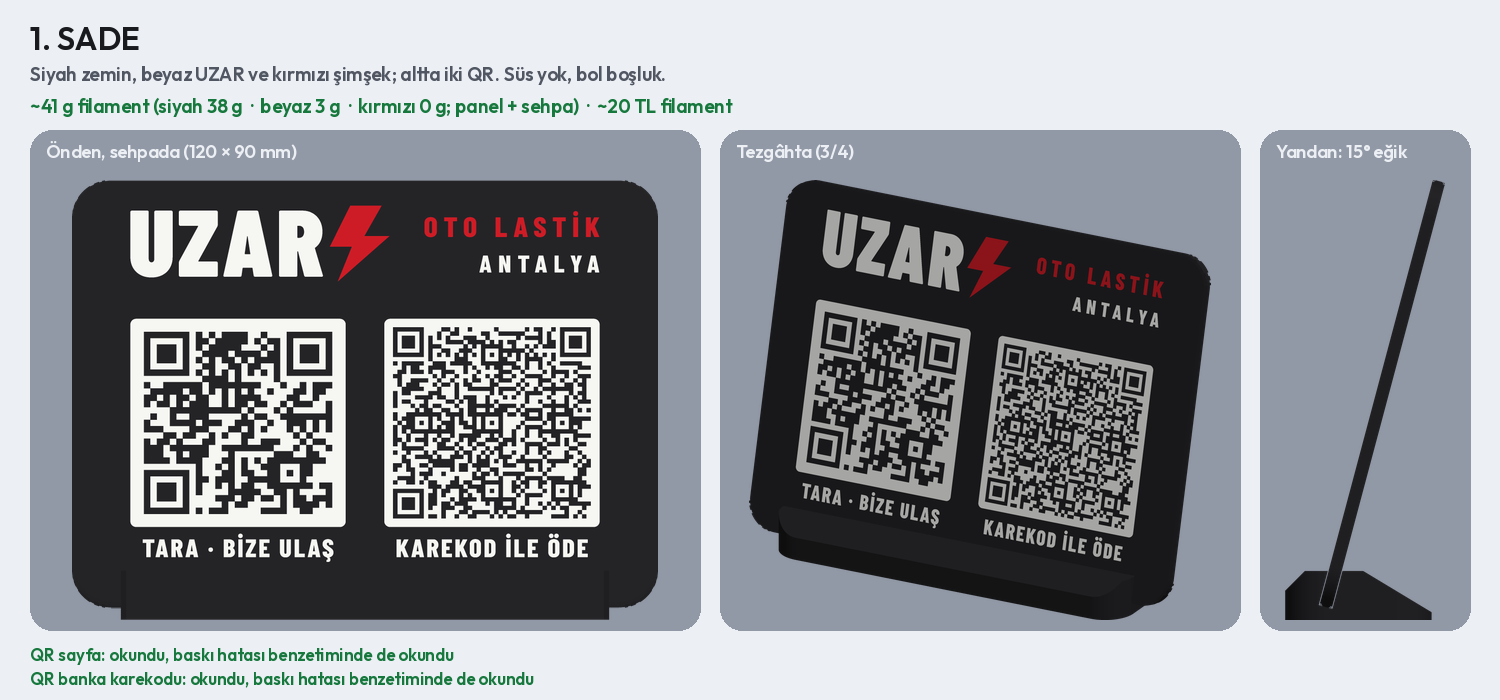
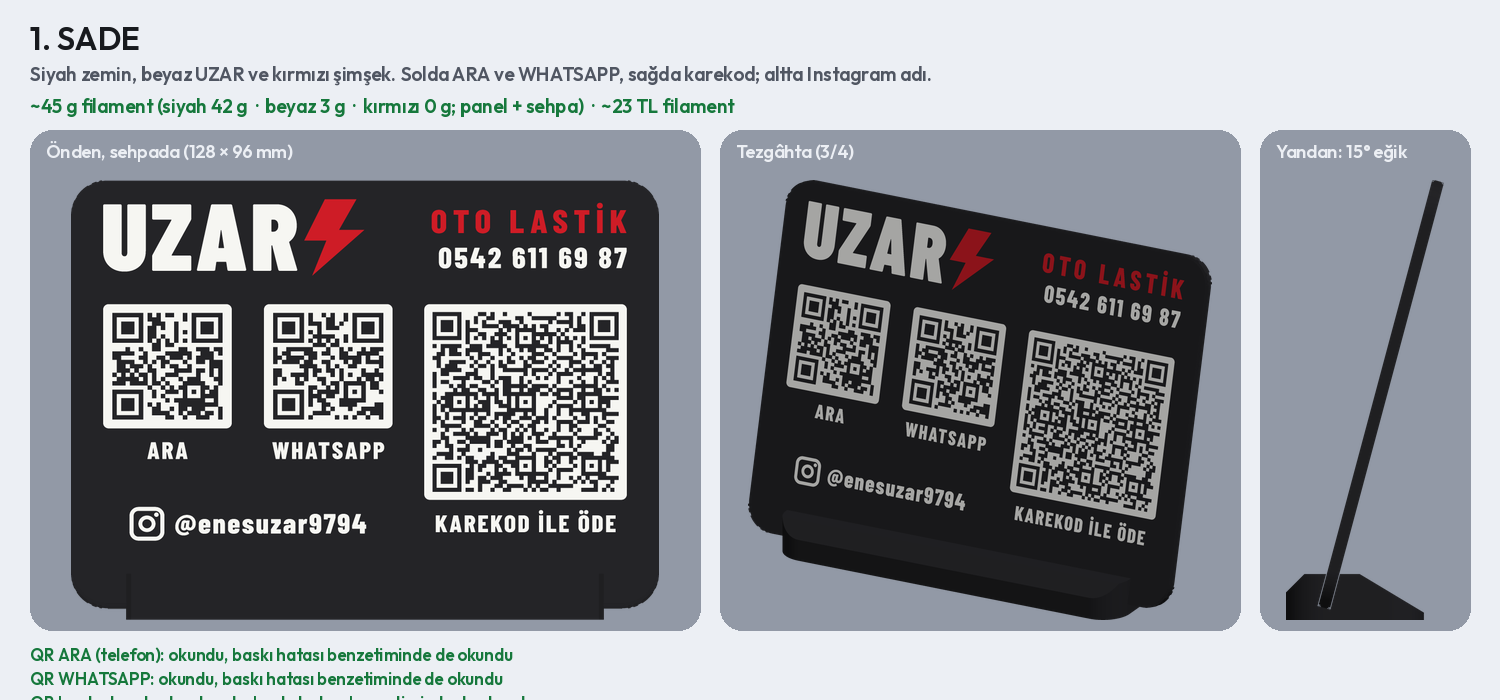
Uzar isimliği: site yok, QR'lar doğrudan açar (ARA, WHATSAPP, karekod)
128 × 96 mm (4:3) üç sade öneri; ARA telefon uygulamasını, WHATSAPP sohbeti, karekod banka uygulamasını açar.
QR'lar ön görünüşten ve baskı hatası benzetiminden okundu.

Claude-Session: https://claude.ai/code/session_01DYSZWrkNx3UmjJ19VqHJCk

diff --git a/scripts/uzar_isimlik.py b/scripts/uzar_isimlik.py
@@ -1,17 +1,17 @@
-"""UZAR OTO LASTİK – QR'lı tezgâh isimliği önerileri: 4:3 yatay (120 × 90 mm), köşeleri yuvarlak, sade.
+"""UZAR OTO LASTİK – QR'lı tezgâh isimliği önerileri: 4:3 yatay (128 × 96 mm), köşeleri yuvarlak, sade. Site yok.
 
-İki QR (tek baskıda, panelin ön yüzünde):
-  * TARA · BİZE ULAŞ  → işletme sayfası (ara, WhatsApp, Instagram, Google'da değerlendir, IBAN kopyala, karekod,
-                        rehbere kaydet); sayfa: scripts/uzar_sayfa.py, bilgiler: uzar_isimlik/bilgiler.json
-  * KAREKOD İLE ÖDE   → bankanın karekodu (ENES UZAR, Yapı Kredi IBAN'ı): banka uygulamasıyla okutunca para
-                        gönderme ekranı alıcısı ve IBAN'ı dolu açılır
-Sayfa adresi sabit kaldıkça bilgiler (Instagram, Google bağlantısı, IBAN) isimlik yeniden basılmadan değişebilir.
+Üç QR, her biri doğrudan işini yapar (internet sitesi gerekmez, araya başka sayfa girmez):
+  * ARA              → TEL:+905426116987: okutunca telefon uygulaması numarayla açılır
+  * WHATSAPP         → https://wa.me/905426116987: WhatsApp sohbeti açılır
+  * KAREKOD İLE ÖDE  → bankanın karekodu (ENES UZAR, Yapı Kredi IBAN'ı): banka uygulamasıyla okutunca para gönderme
+                       ekranı alıcısı ve IBAN'ı dolu açılır
+Instagram adı yazıyla (@enesuzar9794), telefon numarası başlıkta. Bilgiler: uzar_isimlik/bilgiler.json.
 
-Panel 120 × 90 × 2,6 mm (4:3), köşeler R8, kenarlar iki yüzde 0,6 mm basamaklı pahla yumuşatılmış. Ön yüzü tablada
+Panel 128 × 96 × 2,6 mm (4:3), köşeler R8, kenarlar iki yüzde 0,6 mm basamaklı pahla yumuşatılmış. Ön yüzü tablada
 basılır: yazılar ve QR'ın beyaz zemini ilk 4 katmanda yüzeye gömülü renkli dolgu (0,8 mm); QR'ın siyah kareleri
-gövdenin kendisi. Tablada basılan yüz düz ve keskin; Textured PEI ile mat (QR'da parlama olmaz). Panel 100 mm'lik
+gövdenin kendisi. Tablada basılan yüz düz ve keskin; Textured PEI ile mat (QR'da parlama olmaz). Panel 104 mm'lik
 siyah sehpanın yuvasına 15° arkaya eğik takılır (ortada alttaki ~7 mm yuvada kalır); iki parça aynı tablada.
-QR kare boyu en az 0,9 mm (scripts/qr_sistemi.py).
+QR kare boyu en az 0,9 mm (scripts/qr_sistemi.py): karekod 0,90 mm, ARA ve WHATSAPP 0,96 mm.
 
 Her tasarımda QR'lar ön görünüşün görüntüsünden (ve baskı hatası benzetiminden) okunarak doğrulanır.
 
@@ -38,17 +38,20 @@ from masa_isimligi import Concept, upright  # noqa: E402
 OUT_DIR = os.path.join(A.ROOT, "uzar_isimlik")
 BLACK, WHITE, RED = (36, 36, 39), (246, 246, 242), (206, 28, 38)
 NAMES = {BLACK: "siyah", WHITE: "beyaz", RED: "kırmızı"}
-PW, PH = 120.0, 90.0             # panel 4:3 (x −60..60, y 0..90)
+PW, PH = 128.0, 96.0             # panel 4:3 (x −64..64, y 0..96)
 RADIUS = 8.0                     # köşe yuvarlatma
 HIDDEN = 7.5                     # ortada sehpanın yuvasında kalan alt şerit
 T = 2.6                          # panel kalınlığı (13 katman)
 TILT = 15.0
-STAND = dict(length=100.0, depth=30.0, height=10.0, r=8.0)
-TILE = 44.1                      # QR karosu (karekod 45 + 2×2 kare × 0,9 mm)
-CX = 26.0                        # karoların orta noktası (±x)
+STAND = dict(length=104.0, depth=30.0, height=10.0, r=8.0)
+XM = 57.0                        # içerik kenarları (±x)
+KK = 44.1                        # karekod karosu (45 + 2×2 kare × 0,9 mm)
+SM = 28.0                        # ARA / WHATSAPP karosu (25 + 2×2 kare × 0,96 mm)
+TOP = 68.0                       # karoların üst kenarı
 J = m3.JoinType.Round
 INFO = Q.load()
-QRS = {e.key: e for e in Q.qr_set(INFO, ["sayfa", "karekod"])}
+QRS = {e.key: e for e in Q.qr_set(INFO, ["telefon", "whatsapp", "karekod"])}
+QR_NAMES = {"telefon": "ARA (telefon)", "whatsapp": "WHATSAPP", "karekod": "banka karekodu"}
 
 
 # ---------------------------------------------------------------- parçalar
@@ -65,7 +68,7 @@ def outline():
     return A.rrect(PW, PH, RADIUS, 0, PH / 2)
 
 
-def tile(key, cx, cy, s=TILE, r=1.2):
+def tile(key, cx, cy, s, r=1.2):
     """QR karosu: köşeleri yuvarlak beyaz kare eksi koyu kareler. Döner: (beyaz, koyu, kare boyu)."""
     e = QRS[key]
     module = Q.module_for(e, s)
@@ -90,34 +93,46 @@ def wordmark(cap, x, y, align="l"):
     return letters.translate((dx, 0)), b.translate((dx, 0))
 
 
-def wordmark_width(cap):
-    letters, b = wordmark(cap, 0, 0)
-    return b.bounds()[2] - letters.bounds()[0]
-
-
 def header_lr(fg):
-    """Solda UZAR + şimşek, sağda OTO LASTİK / şehir (karoların dış kenarlarına hizalı, arada en az 7 mm)."""
-    x0, x1 = -CX - TILE / 2, CX + TILE / 2
-    letters, b = wordmark(14.0, x0, 76.5)
-    room = x1 - (b.bounds()[2] + 7.0)
+    """Solda UZAR + şimşek, sağda OTO LASTİK / telefon (içerik kenarlarına hizalı, arada en az 8 mm)."""
+    letters, b = wordmark(15.0, -XM, 83.0)
+    room = XM - (b.bounds()[2] + 8.0)
     return [(letters, fg), (b, RED),
-            (text(bold(), "OTO LASTİK", 5.0, x1, 80.0, "r", 1.2, room), RED),
-            (text(bold(), INFO.city, 3.6, x1, 72.2, "r", 1.3, room), fg)]
+            (text(bold(), "OTO LASTİK", 5.2, XM, 86.6, "r", 1.25, room), RED),
+            (text(bold(), INFO.phone, 4.6, XM, 78.4, "r", 0.5, room), fg)]
 
 
-def two_tiles(y0, light=True):
-    """Yan yana iki QR karosu (alt kenar y0). light: beyaz karo (siyah gövdede); False: siyah kareler (beyaz gövdede)."""
+def instagram(x, y, cap=4.4, size=7.6, align="l"):
+    """Instagram simgesi (sade: yuvarlak kare, halka, nokta; çizgiler ≥0,85 mm) ve @kullanıcı adı, y = orta."""
+    h = size / 2
+    w = 0.9
+    ring = A.rrect(size, size, size * 0.26, 0, 0) - A.rrect(size - 2 * w, size - 2 * w, size * 0.26 - w, 0, 0)
+    ro = size * 0.245
+    icon = ring + (A.circle(ro, 0, 0) - A.circle(ro - 0.85, 0, 0)) + A.circle(0.5, size * 0.27, size * 0.27)
+    words = text(bold(), "@" + INFO.instagram, cap, 0, 0, "l", 0.35)
+    gap = 2.2
+    total = size + gap + words.bounds()[2]
+    x0 = {"l": x, "c": x - total / 2, "r": x - total}[align]
+    return icon.translate((x0 + h, y)) + words.translate((x0 + size + gap, y))
+
+
+def qr_group(kk_left, light):
+    """Karekod (büyük) bir yanda, ARA ve WHATSAPP öbür yanda. Döner: [(şekil, rol)] rol: tile / label."""
+    if kk_left:
+        kx, sx = -XM + KK / 2, (XM - SM / 2 - SM - 7.0, XM - SM / 2)
+    else:
+        kx, sx = XM - KK / 2, (-XM + SM / 2, -XM + SM / 2 + SM + 7.0)
     out = []
-    for key, cx in (("sayfa", -CX), ("karekod", CX)):
-        white, dark, _ = tile(key, cx, y0 + TILE / 2)
-        out.append(white if light else dark)
+    white, dark, _ = tile("karekod", kx, TOP - KK / 2, KK)
+    out.append((white if light else dark, "tile"))
+    out.append((text(bold(), "KAREKOD İLE ÖDE", 3.8, kx, TOP - KK - 5.4, "c", 0.38, KK), "label"))
+    for key, x, word in (("telefon", sx[0], "ARA"), ("whatsapp", sx[1], "WHATSAPP")):
+        white, dark, _ = tile(key, x, TOP - SM / 2, SM)
+        out.append((white if light else dark, "tile"))
+        out.append((text(bold(), word, 3.8, x, TOP - SM - 5.0, "c", 0.38, SM), "label"))
+    side_c = (sx[0] + sx[1]) / 2
+    out.append((instagram(side_c, TOP - KK - 5.4, align="c"), "insta"))
     return out
-
-
-def labels(y, cap=3.8):
-    f = bold()
-    return [text(f, "TARA · BİZE ULAŞ", cap, -CX, y, "c", cap * 0.1, TILE),
-            text(f, "KAREKOD İLE ÖDE", cap, CX, y, "c", cap * 0.1, TILE)]
 
 
 def soften(body, out, depth=0.6, steps=3):
@@ -133,58 +148,36 @@ def soften(body, out, depth=0.6, steps=3):
 # ---------------------------------------------------------------- tasarımlar
 
 def s1_sade():
-    """Siyah zemin; solda UZAR + şimşek, sağda OTO LASTİK / ANTALYA; altta iki QR."""
-    c = Concept("1_sade", "Sade", "Siyah zemin, beyaz UZAR ve kırmızı şimşek; altta iki QR. Süs yok, bol boşluk.", "")
+    """Siyah zemin; solda UZAR + şimşek, sağda OTO LASTİK / telefon; altta ARA, WHATSAPP ve karekod."""
+    c = Concept("1_sade", "Sade", "Siyah zemin, beyaz UZAR ve kırmızı şimşek. Solda ARA ve WHATSAPP, sağda karekod; "
+                "altta Instagram adı.", "")
     reg = header_lr(WHITE)
-    reg += [(t, WHITE) for t in two_tiles(16.5)]
-    reg += [(t, WHITE) for t in labels(12.0)]
+    reg += [(cs, WHITE) for cs, _ in qr_group(False, True)]
     return c, reg, BLACK
 
 
 def s2_beyaz():
-    """Beyaz zemin; siyah UZAR, kırmızı şimşek; QR'lar beyaz gövde üstünde siyah kare."""
-    c = Concept("2_beyaz", "Beyaz", "Beyaz zemin, siyah UZAR ve kırmızı şimşek; QR'lar beyaz gövdede siyah kare.", "")
+    """Beyaz zemin; siyah yazılar, kırmızı şimşek; QR'lar beyaz gövde üstünde siyah kare."""
+    c = Concept("2_beyaz", "Beyaz", "Aynı düzen beyaz zeminde: siyah yazı, kırmızı şimşek; QR'lar beyaz gövdede siyah "
+                "kare.", "")
     reg = header_lr(BLACK)
-    reg += [(t, BLACK) for t in two_tiles(16.5, light=False)]
-    reg += [(t, BLACK) for t in labels(12.0)]
+    reg += [(cs, BLACK) for cs, _ in qr_group(False, False)]
     return c, reg, WHITE
 
 
-def s3_ortali():
-    """Ortalanmış başlık: UZAR + şimşek, altında kırmızı OTO LASTİK · ANTALYA; etiketler kırmızı."""
-    c = Concept("3_ortali", "Ortalı", "Başlık ortada: UZAR ve şimşek, altında kırmızı OTO LASTİK · ANTALYA; "
-                "etiketler kırmızı.", "")
-    letters, b = wordmark(14.0, 0.0, 78.0, "c")
+def s3_odeme_solda():
+    """Karekod solda (ödeme önde), ARA ve WHATSAPP sağda; başlık ortada, etiketler kırmızı."""
+    c = Concept("3_odeme_solda", "Ödeme solda", "Başlık ortada; karekod solda, ARA ve WHATSAPP sağda; etiketler "
+                "kırmızı.", "")
+    letters, b = wordmark(13.0, 0.0, 86.0, "c")
     reg = [(letters, WHITE), (b, RED),
-           (text(bold(), f"OTO LASTİK  ·  {INFO.city}", 4.2, 0.0, 66.4, "c", 1.25), RED)]
-    reg += [(t, WHITE) for t in two_tiles(16.0)]
-    reg += [(t, RED) for t in labels(11.6)]
+           (text(bold(), f"OTO LASTİK  ·  {INFO.phone}", 4.2, 0.0, 73.2, "c", 1.0), RED)]
+    for cs, role in qr_group(True, True):
+        reg.append((cs, RED if role == "label" else WHITE))
     return c, reg, BLACK
 
 
-def s4_tek_qr():
-    """Tek büyük QR (sayfa) sağda; solda marka, TARA ve telefon. Karekod sayfada."""
-    c = Concept("4_tek_qr", "Tek QR", "Tek büyük QR sağda (sayfayı açar, karekod sayfada); solda marka, TARA ve "
-                "telefon. En sade.", "")
-    c.uses = ("sayfa",)
-    s, qx, qy = 54.0, 25.0, 47.0
-    x0, x1 = -50.0, qx - s / 2 - 7.0
-    cap = min(13.0, 10.0 * (x1 - x0) / wordmark_width(10.0))
-    letters, b = wordmark(cap, x0, 71.0)
-    white, _, _ = tile("sayfa", qx, qy, s, r=1.6)
-    reg = [(letters, WHITE), (b, RED),
-           (text(bold(), "OTO LASTİK", 4.6, x0, 58.6, "l", 1.25, x1 - x0), RED),
-           (text(bold(), INFO.city, 3.4, x0, 52.2, "l", 1.2), WHITE),
-           (text(heavy(), "TARA", 8.5, x0, 35.0, "l", 0.5), WHITE)]
-    tx = reg[-1][0].bounds()[2] + 3.0
-    reg.append((A.polygon([(tx, 31.8), (tx + 5.2, 35.0), (tx, 38.2)]), RED))
-    reg += [(text(bold(), "BİZE ULAŞ · ÖDE", 3.8, x0, 25.5, "l", 0.45, x1 - x0), WHITE),
-            (text(bold(), INFO.phone, 4.4, x0, 15.0, "l", 0.45, x1 - x0), WHITE),
-            (white, WHITE)]
-    return c, reg, BLACK
-
-
-DESIGNS = [s1_sade, s2_beyaz, s3_ortali, s4_tek_qr]
+DESIGNS = [s1_sade, s2_beyaz, s3_odeme_solda]
 
 
 # ---------------------------------------------------------------- yapım, kontrol, çizim
@@ -205,7 +198,7 @@ def build(fn):
     for m, col in c.parts:
         g[col] = g.get(col, 0.0) + Y.grams(m)
     c.g = g
-    c.expected = [QRS[k].content for k in getattr(c, "uses", ("sayfa", "karekod"))]
+    c.expected = [QRS[k].content for k in ("telefon", "whatsapp", "karekod")]
     return c
 
 
@@ -248,7 +241,7 @@ def mesh(parts):
 
 
 def sheet(c, i):
-    views = [(rotation(0, -90), "Önden, sehpada (120 × 90 mm)"), (rotation(-28, -68), "Tezgâhta (3/4)"),
+    views = [(rotation(0, -90), f"Önden, sehpada ({PW:.0f} × {PH:.0f} mm)"), (rotation(-28, -68), "Tezgâhta (3/4)"),
              (rotation(-90, -90), f"Yandan: {TILT:.0f}° eğik")]
     W, H = 1500, 700
     canvas = Image.new("RGB", (W, H), (236, 239, 244))
@@ -269,7 +262,7 @@ def sheet(c, i):
             fill=(22, 120, 60), font=font_ui(19))
     y = 644
     for content, ok, ok_sim in c.qr:
-        label = "sayfa" if content == QRS["sayfa"].content else "banka karekodu"
+        label = next(QR_NAMES[k] for k, e in QRS.items() if e.content == content)
         dr.text((30, y), f"QR {label}: " + ("okundu" if ok else "OKUNMADI") +
                 (", baskı hatası benzetiminde de okundu" if ok_sim else ", benzetimde OKUNMADI"),
                 fill=(22, 120, 60) if ok and ok_sim else (200, 30, 38), font=font_ui(17))
@@ -283,10 +276,11 @@ def overview(cs, path):
     W, H = 2 * cw + 3 * gap, 2 * ch + 3 * gap + 110
     canvas = Image.new("RGB", (W, H), (244, 245, 247))
     dr = ImageDraw.Draw(canvas)
-    dr.text((24, 20), "UZAR OTO LASTİK – QR'LI TEZGÂH İSİMLİĞİ (4:3, 120 × 90 mm)", fill=(24, 26, 30),
+    dr.text((24, 20), f"UZAR OTO LASTİK – QR'LI TEZGÂH İSİMLİĞİ (4:3, {PW:.0f} × {PH:.0f} mm)", fill=(24, 26, 30),
             font=font_ui(34))
-    dr.text((24, 66), "Sol QR: sayfa (ara · WhatsApp · Instagram · Google · IBAN)  ·  sağ QR: banka karekodu "
-                      "(ENES UZAR, Yapı Kredi)  ·  hepsi görüntüden okundu", fill=(110, 114, 124), font=font_ui(19))
+    dr.text((24, 66), "Site yok, QR'lar doğrudan açar: ARA → telefon uygulaması  ·  WHATSAPP → sohbet  ·  KAREKOD İLE "
+                      "ÖDE → banka uygulaması (ENES UZAR, Yapı Kredi)  ·  hepsi görüntüden okundu",
+            fill=(110, 114, 124), font=font_ui(19))
     for k, c in enumerate(cs):
         x, y = gap + (k % 2) * (cw + gap), 110 + gap + (k // 2) * (ch + gap)
         dr.rounded_rectangle((x, y, x + cw, y + ch), 24, fill=(226, 228, 232))
@@ -314,7 +308,7 @@ def main():
         sheet(c, i)
         cs.append(c)
         bad = [k for k, (m, _) in enumerate(c.parts) if not str(m.status()).endswith("NoError") or m.volume() <= 0]
-        mods = {k: float(Q.module_for(e, TILE)) for k, e in QRS.items()}
+        mods = {k: float(Q.module_for(e, KK if k == "karekod" else SM)) for k, e in QRS.items()}
         print(f"{c.key:12s} ~{sum(c.g.values()):4.0f} g  QR: {[(ok, sim) for _, ok, sim in c.qr]}  "
               f"0,8 mm'den ince (%): {thin(c)}  kare: {mods}  bozuk: {bad}")
     if not only:

diff --git a/uzar_isimlik/README.md b/uzar_isimlik/README.md
@@ -1,71 +1,46 @@
-# UZAR OTO LASTİK – QR'lı tezgâh isimliği ve işletme sayfası
+# UZAR OTO LASTİK – QR'lı tezgâh isimliği (site yok)
 
 ![Tasarımlar](hepsi.png)
 
-## Sistem
+## Sistem: QR'lar doğrudan açar
 
-| QR | Okutunca | Not |
-| --- | --- | --- |
-| **TARA · BİZE ULAŞ** | işletme sayfası açılır: Hemen Ara, WhatsApp, Instagram (@enesuzar9794), Google'da değerlendir, IBAN (tek dokunuşla kopyala), karekod, Rehbere Kaydet | sayfa dosyaları: `site/` (yüklemeye hazır: `uzar_site.zip`) |
-| **KAREKOD İLE ÖDE** | banka uygulamasıyla okutulunca para gönderme ekranı ENES UZAR ve IBAN'ı dolu açılır | Yapı Kredi karekodunun içeriği fotoğraftan okundu, birebir yeniden çizildi |
+| QR | Okutunca |
+| --- | --- |
+| **ARA** | `TEL:+905426116987`: telefon uygulaması numarayla açılır |
+| **WHATSAPP** | `https://wa.me/905426116987`: WhatsApp sohbeti açılır |
+| **KAREKOD İLE ÖDE** | banka uygulamasıyla okutulunca para gönderme ekranı ENES UZAR ve IBAN'ı dolu açılır (Yapı Kredi karekodunun içeriği fotoğraftan okundu, birebir yeniden çizildi) |
+
+Instagram adı (@enesuzar9794) ve telefon numarası yazılı. Araya internet sitesi girmez; yayınlanacak bir şey yok.
 
 - Tüm bilgiler tek dosyada: `bilgiler.json`. IBAN mod-97 ile doğrulanır; karekodun CRC'si ve içindeki IBAN/alıcı
   bu IBAN'la karşılaştırılır (tutmazsa üretim durur).
-- Sayfa adresi değişmediği sürece Instagram, Google bağlantısı, IBAN vb. **isimlik yeniden basılmadan** sayfadan
-  değiştirilebilir (`python3 scripts/uzar_sayfa.py`, yeni zip yüklenir).
-- QR kare boyu: sayfa 1,33 mm, karekod 0,90 mm (en az 0,9). Her QR baskıya giden geometriden ve isimliğin ön
-  görünüşünden okundu; siyahın ±0,15 mm taşması, bulanıklık, 35° eğik bakış, uzaktan, gölge ve gürültü
+- QR kare boyu: karekod 0,90 mm, ARA ve WHATSAPP 0,96 mm (en az 0,9). Her QR baskıya giden geometriden ve
+  isimliğin ön görünüşünden okundu; siyahın ±0,15 mm taşması, bulanıklık, 35° eğik bakış, uzaktan, gölge ve gürültü
   benzetimlerinde de okundu (`qr_kontrol.png`).
 
-![Sayfa](sayfa_onizleme.png)
+## İsimlik (3 öneri, 4:3)
 
-Hareketler: açılışta şeritler kayarak gelir, UZAR yükselir, şimşek çakar (sonra arada bir yeniden çakar),
-OTO LASTİK açılır, düğmeler sırayla gelir; lastik dişi şeridi döner, Hemen Ara düğmesinde parıltı ve telefon
-simgesi titrer, aşağıdakiler kaydırınca belirir, IBAN kopyalanınca kutu parlar. Telefonda "hareketi azalt" açıksa
-hepsi kapanır. Kayıt: `sayfa_animasyon.gif`.
-
-## Yayında: Claude sayfası
-
-`sayfa_artifact.html` → https://claude.ai/artifact/HUbQzyvbWQyaWsyoYZ6x9C (önce özel; sayfanın **Paylaş**
-menüsünden bağlantıya sahip herkese açılır). Bu biçimde yazı tipleri ve karekod sayfanın içinde; oradaki çerçeve
-dosya indirmeyi engellediği için "Rehbere Kaydet" yok, karekod basılı tutularak kaydedilir; telefon bağlantısı her
-izleyicide çalışmayabildiği için "Hemen Ara" numarayı da panoya kopyalar. Herkese açılınca adres isimlik QR'ına
-yazılır (`bilgiler.json` → `sayfa_url`).
-
-## Başka yol: kendi sitesi (bu depodan bağımsız, işletmenin kendi hesabıyla)
-
-Sayfa, isimliği yapanın hesabıyla bağlantılı olmasın diye işletmenin kendi ücretsiz hesabında yayınlanır:
-
-1. `uzar_site.zip` dosyasını bilgisayara indir, aç: içinden `uzar_site` klasörü çıkar.
-2. Bilgisayar tarayıcısında **app.netlify.com/drop** sayfasını aç, `uzar_site` klasörünü sayfaya sürükle.
-3. Site birkaç saniyede açılır. Kalıcı olması için işletmenin e-postasıyla ücretsiz hesap açıp siteyi sahiplen
-   (sahiplenilmeyen site bir süre sonra silinir).
-4. Site ayarlarında adı **uzarotolastik** yap → `https://uzarotolastik.netlify.app/`.
-5. Kesin adres `bilgiler.json` → `sayfa_url`a yazılır, isimlik QR'ı o adresle yeniden üretilir.
-
-Diğer yol: Cloudflare Pages → "Direct Upload" (zip ya da klasör) → `uzarotolastik.pages.dev`.
-İsimlik, sayfa açıldığı doğrulanmadan basılmamalı (QR bu adresi taşır). Görsellerdeki QR şimdilik
-`https://uzarotolastik.netlify.app/` adresini taşır.
-
-## İsimlik (4 öneri, 4:3)
-
-Panel **120 × 90 × 2,6 mm**, köşeler R8, kenarlar iki yüzde 0,6 mm basamaklı pahla yumuşatılmış. Ön yüzü tablada
+Panel **128 × 96 × 2,6 mm**, köşeler R8, kenarlar iki yüzde 0,6 mm basamaklı pahla yumuşatılmış. Ön yüzü tablada
 basılır: yazılar ve QR'ın beyaz zemini ilk 4 katmanda yüzeye gömülü renkli dolgu (0,8 mm), QR'ın siyah kareleri
-gövdenin kendisi. Tablada basılan yüz düz ve keskin; Textured PEI ile mat olur (QR parlamaz). Panel 100 mm'lik
-siyah sehpanın yuvasına 15° eğik takılır; ikisi aynı tablada, tutkalsız. Filament ~39–41 g (~20 TL, 500 TL/kg);
+gövdenin kendisi. Tablada basılan yüz düz ve keskin; Textured PEI ile mat olur (QR parlamaz). Panel 104 mm'lik
+siyah sehpanın yuvasına 15° eğik takılır; ikisi aynı tablada, tutkalsız. Filament ~44–45 g (~22–23 TL, 500 TL/kg);
 seçilen tasarım PrusaSlicer'da ölçülür.
 
-1. **Sade** – solda UZAR ve şimşek, sağda OTO LASTİK / ANTALYA, altta iki QR.
+1. **Sade** – siyah; solda UZAR ve şimşek, sağda OTO LASTİK ve telefon; solda ARA ve WHATSAPP, sağda karekod.
 2. **Beyaz** – aynı düzen beyaz zeminde; QR'lar beyaz gövdede siyah kare.
-3. **Ortalı** – başlık ortada, etiketler kırmızı.
-4. **Tek QR** – yalnız sayfa QR'ı (karekod sayfada), solda marka, TARA ve telefon.
+3. **Ödeme solda** – başlık ortada, karekod solda, etiketler kırmızı.
+
+## Kullanılmayan: işletme sayfası
+
+İlk denemede sol QR bir işletme sayfası açıyordu (`site/`, `uzar_site.zip`, `sayfa_artifact.html`,
+`scripts/uzar_sayfa.py`). Claude sayfasında "Claude" yazısı görünüp telefon bağlantısı çalışmadığı, kendi sitesi
+de yayınlanamadığı için bırakıldı; dosyalar ileride site istenirse diye duruyor.
 
 ## Yeniden üretme
 
 ```bash
-pip install segno zxing-cpp opencv-python-headless playwright fonttools
+pip install segno zxing-cpp opencv-python-headless
 python3 scripts/qr_sistemi.py            # QR kontrolü → qr_kontrol.png
 python3 scripts/qr_sistemi.py oku resim.png   # banka karekodu ekran görüntüsünü okur
-python3 scripts/uzar_sayfa.py            # sayfa → site/, uzar_site.zip, sayfa_onizleme.png
 python3 scripts/uzar_isimlik.py          # isimlik görselleri → <tasarım>.png, hepsi.png
 ```
